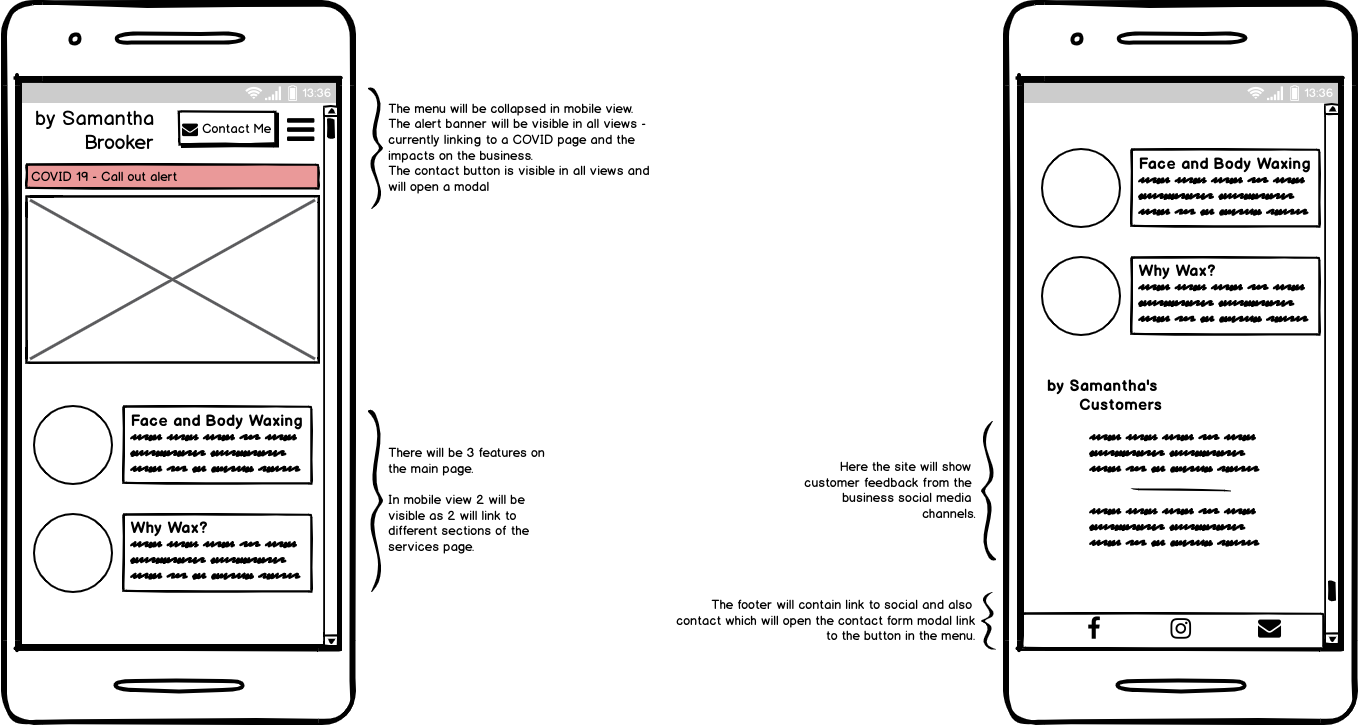
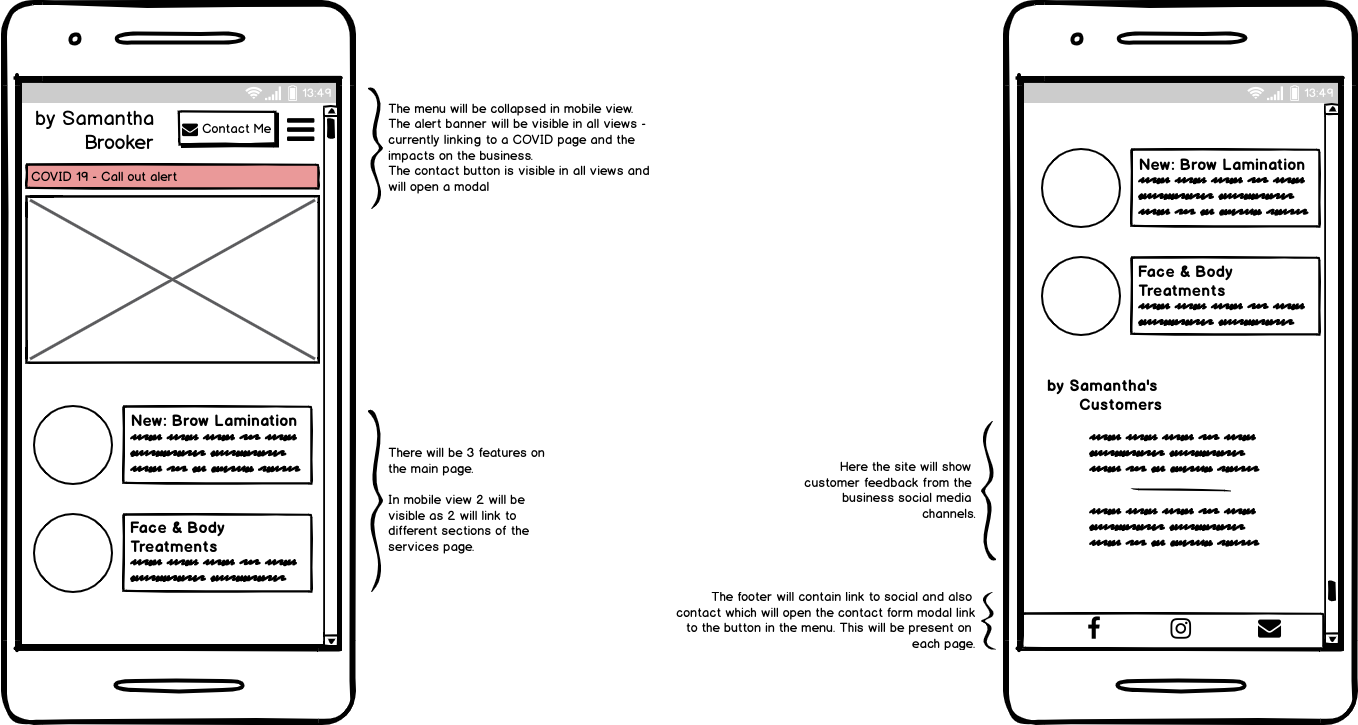
Update: Add missing wireframes and update home wireframeviews

diff --git a/README.md b/README.md
@@ -14,7 +14,7 @@
       - Fonts
       - Icons
       - Colours
-   - Wireframes
+   - Site Map and Wireframes
    - Features & Future Releases 
 2. [Testing](#testing)
 3. [Bugs and De-bugging](#bugs)
@@ -32,7 +32,7 @@
 ## UX Development <a name="uxdev"></a>
 ### Project Goals
 
-This site is to support a local beauty business, By Samantha Brooker. Sam runs a mobile beauty business and has mainly been relying on her Facebook page to drive business. The website will give her more control over the information available to customers and to allow them to contact her should they wish to employ her services.
+This site is to support a beauty business, By Samantha Brooker, which operates in the Thurrock area of Essex. Sam runs a mobile beauty business and has mainly been relying on her Facebook page to drive business. The website will give her more control over the information available to customers and to allow them to contact her should they wish to employ her services.
 
 After an initial consultation with Sam we have been able to identify the following possible features that she would like to have available and that customers would expect to see when visiting and using the site.
 
@@ -64,7 +64,7 @@ The site owner has the following goals that they wish to achieve from this proje
 #### Icons
 #### Colours
 
-### Wireframes
+### Site Map and Wireframes
 To help ensure that the site contains all of the required information I have created simple wireframes as a framework, using the User Stories and Site Owner Goals to ensure that all of the required features for this release are present.
 
 The site is made up of 5 pages, which are shown in the below sitemap:
@@ -81,13 +81,13 @@ As the Contact Me section isn't a page but a modal, you can see how this will be
 ![contactmemobileview](wireframe/contactmemobileview.png)
 
 - Home page: [Tablet](wireframe/hometabletview.png) | [Desktop](homedesktopview.png)
-- Treatments page: 
-- Why Wax page: 
-- COVID-19: 
-- About: 
-- Contact (modal): 
+- Treatments page: [Mobile](wireframe/treatmentsmobileview.png) | [Tablet](wireframe/treatmentstabletview.png) | [Desktop](wireframe/treatmentsdesktopview.png)
+- Why Wax page: [Mobile](wireframe/) | [Tablet](wireframe/) | [Desktop](wireframe/)
+- COVID-19: [Mobile](wireframe/covidmobileview.png) | [Tablet](wireframe/covidtabletview.png) | [Desktop](wireframe/coviddesktopview.png)
+- About: [Mobile](wireframe/aboutmobileview) | [Tablet](wireframe/abouttabletview.png) | [Desktop](wireframe/aboutdesktopview.png)
+- Contact (modal): [Tablet](wireframe/contacttabletview.png) | [Desktop](wireframe/contactdesktopview.png)
 
-### Features & Future Releases
+### **Features & Future Releases**
 Based on what Sam is looking to achieve and what customers would expect to achieve from visiting her site, a fully functional site should contain the following features to be relevant and fit the needs:
 
 - Show what the business is about
@@ -101,18 +101,18 @@ Based on what Sam is looking to achieve and what customers would expect to achie
 
 For this first release we will be focusing on the features listed in v1.0 scheduled for release July 2020, with the remaining features appearing in future releases:
 
-by Samantha Brooker v1.0 - Release July 2020:
+*by Samantha Brooker v1.0 - Release July 2020*:
 - Show what the business is about
 - Highlight the uniqueness of business - Sam herself. A customer will be seen by her personally each time.
 - Allow customers to make contact with Sam for general enquiries
 - Be mobile friendly with a responsive layout design for a smooth desktop experience
 - Be clean and simple in design and not be perceived as overloaded and cluttered with excessive content
 
-by Samantha Brooker v2.0 (Release date TBC):
+*by Samantha Brooker v2.0 (Release date TBC)*:
 - Linked with Sam’s social media channels to showcase customer / service quality & scope to build a level of trust
 - Allow customers to make a booking
 
-by Samantha Brooker v3.0 (Release date TBC):
+*by Samantha Brooker v3.0 (Release date TBC)*:
 - Allow customers to make full or part payments and track this for easy management of bookings and payments
 
 
